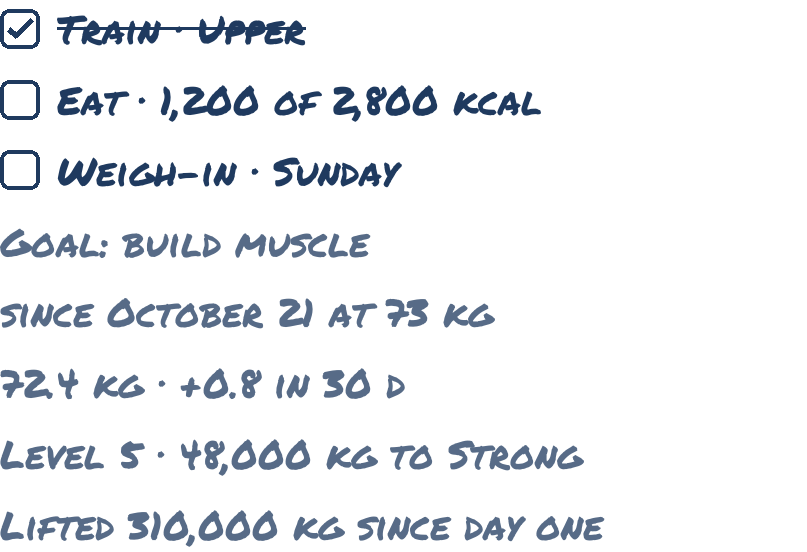
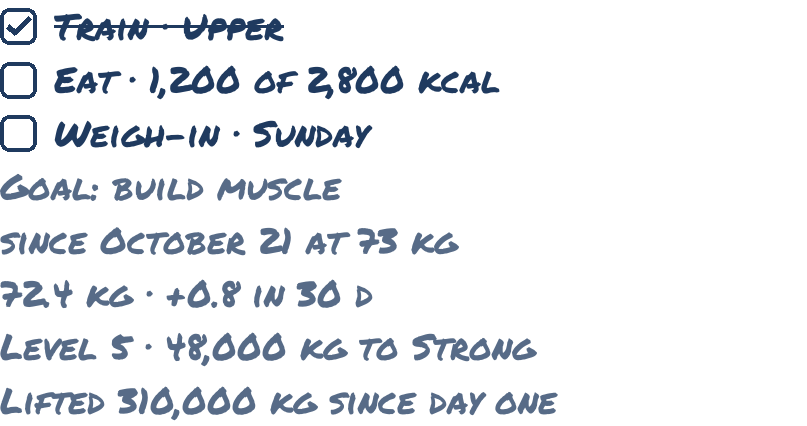
Fit all eight whiteboard lines on the board and show the marker font on the web
The line size now comes from the ink height, so the last line stays above the bear's head. The web build draws the board in Permanent Marker.

diff --git a/src/components/bearSceneParts.tsx b/src/components/bearSceneParts.tsx
@@ -13,7 +13,8 @@ import {
   BearHouse_pillWidth,
   IBearHouseObject,
 } from "../models/bearHouse";
-import { BearScene_boardInkBottom, BearScene_dashboardRect, IBearBox } from "../models/bearScene";
+import { BearBoardSize_layout, BearBoardSize_rowRatio } from "../models/bearBoardSize";
+import { IBearBox } from "../models/bearScene";
 import { BearImage_uri } from "../utils/bearImage";
 
 const markerInk = "#1F3A5F";
@@ -58,7 +59,7 @@ function BoardLine(props: { line: IBearBoardLine; size: number }): JSX.Element {
       testID={`bear-board-${line.id}`}
       data-testid={`bear-board-${line.id}`}
       className="flex-row items-center"
-      style={{ height: size * 1.45 }}
+      style={{ height: size * BearBoardSize_rowRatio }}
     >
       {isTodo && (
         <View
@@ -115,20 +116,11 @@ export function BearSceneBoard(props: {
   onTarget: (target: IBearBoardTarget) => void;
 }): JSX.Element {
   const { board } = props;
-  const pad = board.width * 0.04;
-  const [, boardTop, , boardBottom] = BearScene_dashboardRect;
-  const inkHeight = board.height * ((BearScene_boardInkBottom - boardTop) / (boardBottom - boardTop));
-  const lineSize = Math.max(11, Math.round(inkHeight * 0.085));
+  const { pad, width, height, lineSize } = BearBoardSize_layout(board);
   return (
     <View
       className="justify-between"
-      style={{
-        position: "absolute",
-        left: board.left + pad,
-        top: board.top + pad,
-        width: board.width - 2 * pad,
-        height: inkHeight - pad,
-      }}
+      style={{ position: "absolute", left: board.left + pad, top: board.top + pad, width, height }}
     >
       {boardTargets.map((target) => (
         <BoardGroup

diff --git a/test/bearBoardSize.test.ts b/test/bearBoardSize.test.ts
@@ -1,0 +1,31 @@
+import "mocha";
+import { expect } from "chai";
+import { BearArt_sprite } from "../src/models/bearArt";
+import { BearBoardSize_layout, BearBoardSize_maxLines, BearBoardSize_rowRatio } from "../src/models/bearBoardSize";
+import { BearScene_gymArt, BearScene_layout } from "../src/models/bearScene";
+
+function boardAt(width: number): ReturnType<typeof BearBoardSize_layout> {
+  const sprite = BearArt_sprite("female", "brown", 1, "normal");
+  return BearBoardSize_layout(BearScene_layout(width, BearScene_gymArt, 1, 0, sprite).board);
+}
+
+describe("BearBoardSize_layout", () => {
+  [375, 393, 440].forEach((width) => {
+    it(`fits eight rows inside the ink area at ${width} pt`, () => {
+      const size = boardAt(width);
+      expect(size.lineSize * BearBoardSize_rowRatio * BearBoardSize_maxLines).to.be.at.most(size.height);
+    });
+  });
+
+  it("gives the sizes the 393 pt phone needs", () => {
+    expect(boardAt(375).lineSize).to.equal(11.5);
+    expect(boardAt(393).lineSize).to.equal(12);
+    expect(boardAt(440).lineSize).to.equal(13.5);
+  });
+
+  it("lets the text go below 11 pt on a small board instead of overflowing", () => {
+    const size = BearBoardSize_layout({ left: 0, top: 0, width: 200, height: 137 });
+    expect(size.lineSize).to.be.below(11);
+    expect(size.lineSize * BearBoardSize_rowRatio * BearBoardSize_maxLines).to.be.at.most(size.height);
+  });
+});

diff --git a/src/models/bearBoardSize.ts b/src/models/bearBoardSize.ts
@@ -1,0 +1,28 @@
+import { BearScene_boardInkBottom, BearScene_dashboardRect, IBearBox } from "./bearScene";
+
+export const BearBoardSize_maxLines = 8;
+export const BearBoardSize_rowRatio = 1.45;
+const padShare = 0.04;
+const inkShare = 0.085;
+const minSize = 8;
+
+export interface IBearBoardSize {
+  pad: number;
+  width: number;
+  height: number;
+  lineSize: number;
+}
+
+function halfPointFloor(value: number): number {
+  return Math.floor(value * 2) / 2;
+}
+
+export function BearBoardSize_layout(board: IBearBox): IBearBoardSize {
+  const pad = board.width * padShare;
+  const [, boardTop, , boardBottom] = BearScene_dashboardRect;
+  const inkHeight = board.height * ((BearScene_boardInkBottom - boardTop) / (boardBottom - boardTop));
+  const height = inkHeight - pad;
+  const fitsEightRows = height / (BearBoardSize_maxLines * BearBoardSize_rowRatio);
+  const lineSize = Math.max(minSize, halfPointFloor(Math.min(inkHeight * inkShare, fitsEightRows)));
+  return { pad, width: board.width - 2 * pad, height, lineSize };
+}

diff --git a/src/index.css b/src/index.css
@@ -179,6 +179,11 @@ html.liftosaur-app #app {
   .planner-editor-view * {
     font-family: "Iosevka Web" !important;
   }
+
+  [data-testid^="bear-board-"],
+  [data-testid^="bear-board-"] * {
+    font-family: "PermanentMarker-Regular", cursive !important;
+  }
 }
 
 .cm-gutters {
